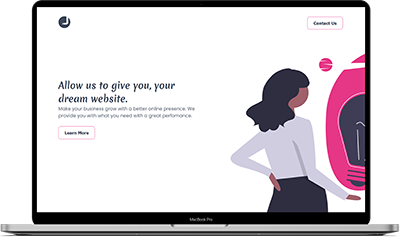
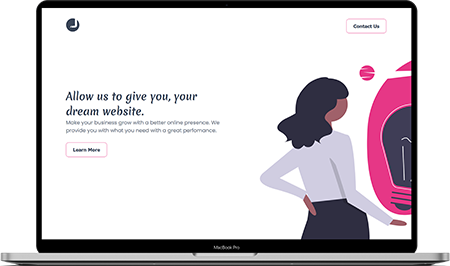
Text content changed and spell checking. Minor UI fixes

diff --git a/src/styles/componentsStyles.js b/src/styles/componentsStyles.js
@@ -41,11 +41,15 @@ export const UnstyledButton = styled.button`
 export const SVGHolder = styled.div`
     svg {
       fill: var(--color-text);
+      transition: ${SITE_CONFIG.transitions.default};
 
-      &:hover {
-          transition: ${SITE_CONFIG.transitions.default};
+      &:hover {    
           fill: var(--color-accent);
           cursor: pointer;
+      }
+
+      &:focus {
+        fill: var(--color-text);
       }
     }
 `
@@ -71,14 +75,7 @@ export const Container = styled.div`
     max-width: 1244px;
   }
 
-  ${props =>
-    props.fluid &&
-    css`
-      padding: 0;
-      margin: 0;
-      background: red;
-      max-width: 100% !important;
-    `}
+
 `
 
 export const Flex = styled.div`
@@ -121,10 +118,14 @@ export const HeaderNav = styled.div`
   height: 0px;
   width: 100%;
   position: absolute;
-  top: 62px;
+  top: 42px;
   right: 0;
   left: 0;
   z-index: 99;
+
+  @media ${SITE_CONFIG.media.small} {
+    top: 62px;
+  }
 `
 
 export const HeaderLogo = styled.div`
@@ -137,6 +138,18 @@ export const HeaderLogo = styled.div`
         height: 35px;
       }
     }  
+
+    ${props =>
+      props.bulb &&
+        css`
+          height: 35px;
+    `}
+
+    ${props =>
+      props.rotate &&
+        css`
+          transform: rotate(30deg);
+    `}
 `
 
 // *********************** Banner *********************** \\
@@ -147,7 +160,7 @@ export const BannerContainer = styled.div`
     row-gap: 40px;
     align-items: center;
     justify-content: center;
-    padding: 150px 0;
+    padding: 120px 0;
     text-align: center;
     
     @media ${SITE_CONFIG.media.small} {
@@ -281,7 +294,7 @@ export const PortfolioSeeAll = styled.div`
 `
 
 export const PortfolioMoreInfo = styled.div`
-    margin-top: 50px;
+    margin-top: 30px;
 
     a {
       color: var(--color-accent);
@@ -332,19 +345,31 @@ export const PortfolioCard = styled.div`
 
         }
     }
+
+    @media ${SITE_CONFIG.media.medium} {
+        min-height: 70vh;
+    }
     
 `
 
 export const PortfolioImage = styled.div`
     
-    min-width: 200px;
+    margin-bottom: 20px;
+    /* min-width: 200px; */
+    min-width: 280px;
+    max-width: 400px;
     
     @media ${SITE_CONFIG.media.small} {
         min-width: 300px;
+        margin-bottom: 0px;
     }
 
     @media ${SITE_CONFIG.media.medium} {
         min-width: 400px;
+    }
+
+    @media ${SITE_CONFIG.media.medium} {
+        min-width: 450px;
     }
 ` 
 

diff --git a/src/constants.js b/src/constants.js
@@ -75,12 +75,12 @@ export const SITE_CONFIG = {
 export const TYPOGRAPHY = {
 
   banner: {
-    title: "My name is Rodrigo. I’m a software developer from Portugal. I’m a front-end afficionado and my goal is to make the web prettier one project at a time.",
+    title: "My name is Rodrigo. I’m a software developer from Portugal. I aim to make the web prettier one project at a time.",
     tagline: "Create. Destroy. Rebuild."
   },
 
   about: {
-    description: "I have a BSc in Computer and Telematics engineering from University of Aveiro. I worked for a project in Altice Labs, named BOT School. Following that, i worked mostly freelance. I have a passion for well designed websites and mobile apps. I also like graphic design. I’m eaguer to learn something new everyday and provide people with the best projects I can."
+    description: "Hi everyone! My name is Rodrigo, and I was born in Figueira da Foz, Portugal 26 years ago, where I've lived and studied until I went to university. I've graduated with a B.Sc. in Computer and Telematics Engineering, and following that, started working as a software developer for Altice Labs, in Aveiro. As long as I can remember I've always had a passion for technology and arts. And because I believe that web design is an art, I can combine both my passions, by doing web development. I always aim to give every client the prettiest website I can. But, of course, beauty isn't everything, so I aim to deliver websites with a great performance, and taking into consideration good UI/UX design and good SEO practices. I’m eager to learn something new every day and I hope I can do it with you!"
   }
 
 }

diff --git a/src/components/Header.js b/src/components/Header.js
@@ -18,12 +18,12 @@ export default () => {
       <Container>
         <SVGHolder>
           <Flex spaceBetween noHeight>
-            <HeaderLogo>
+            <HeaderLogo >
               <Link to="/" aria-label="Rodrigo Rocha">
                 <Logo />
               </Link>
             </HeaderLogo>
-            <HeaderLogo>
+            <HeaderLogo rotate bulb>
               <UnstyledButton aria-label="Toggle Theme" onClick={() => setColorMode(colorMode === 'light' ? 'dark' : 'light')}>
                   {colorMode === 'light' ? <BulbOn /> : <Bulb />} 
               </UnstyledButton>

diff --git a/src/components/Portfolio/Portfolio.js b/src/components/Portfolio/Portfolio.js
@@ -22,7 +22,7 @@ export default () => {
                             url
                             image {
                                 childImageSharp {
-                                    fluid(maxWidth: 400, quality: 90) {
+                                    fluid(maxWidth: 450, quality: 100) {
                                         ...GatsbyImageSharpFluid_withWebp_tracedSVG
                                     }
                                 }

diff --git a/src/components/About/About.js b/src/components/About/About.js
@@ -11,7 +11,7 @@ export default () => {
         query {
             picture: file(relativePath: {eq: "portrait.jpg"}) {
                 childImageSharp {
-                    fluid(maxWidth: 500, quality: 90) {
+                    fluid(maxWidth: 500, quality: 100) {
                         ...GatsbyImageSharpFluid_withWebp_tracedSVG
                     }  
                 }

diff --git a/gatsby-config.js b/gatsby-config.js
@@ -18,7 +18,7 @@ module.exports = {
         background_color: `#ffffff`,
         theme_color: `#178555`,
         display: `minimal-ui`,
-        icon: `src/assets/images/favico.png`, // This path is relative to the root of the site.
+        icon: `src/assets/images/favico.svg`, // This path is relative to the root of the site.
       },
     },
     {

diff --git a/content/projects/02-bee-awake/index.md b/content/projects/02-bee-awake/index.md
@@ -1,7 +1,7 @@
 ---
 id: '03'
 name: 'Bee Awake Website'
-description: "Website for Bee Awake. It's a project about improving people's life, by relocating them to a low population density. They want to show you the quality of life and the advantages that your relocation gives you, at an economic, well-being and ecological level."
+description: "Development of a website for Bee Awake. It's a project about improving people's life, by relocating them to a low population density. They want to show you the quality of life and the advantages that your relocation gives you, at an economic, well-being and ecological level."
 image: 'beeawake.png'
 url: 'https://instagram.com/bee.awake'
 type: 'project'

diff --git a/content/projects/01-winegrid/index.md b/content/projects/01-winegrid/index.md
@@ -1,7 +1,7 @@
 ---
 id: '02'
 name: 'Winegrig Mobile App'
-description: 'My BSc project. A mobile app that comunnicates with a dashboard and reads/writes data. Also connects to a sensor via bluetooth low energy.'
+description: 'A mobile app that communicates with an online dashboard and reads/writes data. This app can also connect to a sensor Bluetooth Low Energy. It has note taking capabilities, control process status and a QR Code reader for a quick connection with a determined sensor.'
 image: './winegrid.png'
 url: 'https://www.behance.net/gallery/102798063/Winegrid-Mobile-App'
 type: 'project'

diff --git a/content/projects/00-jamgoose/index.md b/content/projects/00-jamgoose/index.md
@@ -1,7 +1,7 @@
 ---
 id: '01'
 name: 'Jamgoose Web Development'
-description: 'Complete branding of my personal project. Visual identity, website, social media and so on.'
+description: 'Complete branding of my personal project from logo design, visual identity, website and social media.'
 image: './jamgoose.png'
 url: 'jamgoose.netlify.app'
 type: 'project'
